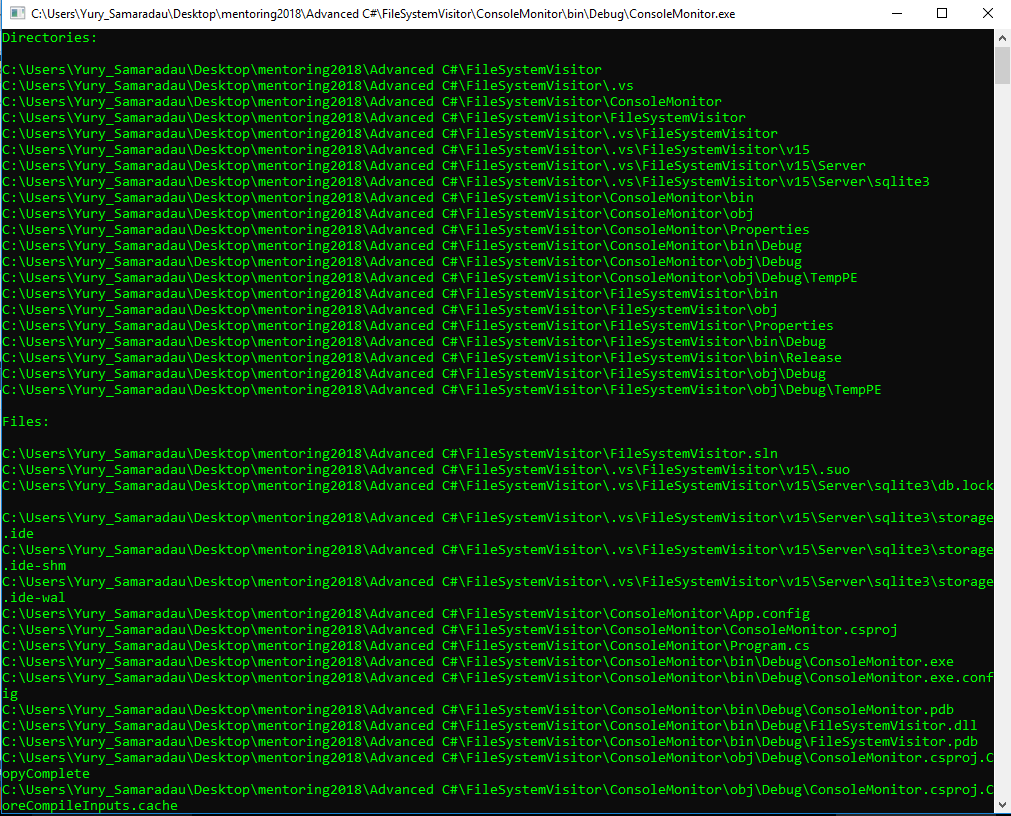
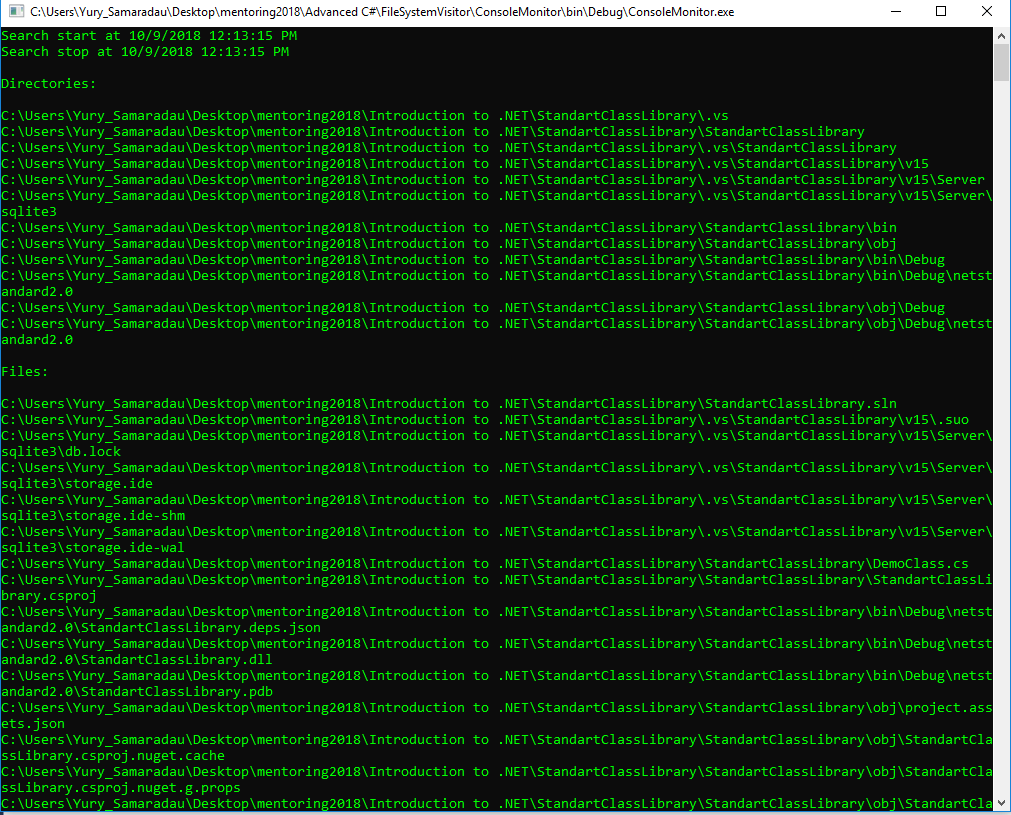
+ Tests, Events * Screenshot

Changed region(s): [[0.0, 0.0, 1.0, 1.0]]

diff --git a/Advanced C#/FileSystemVisitor/FileSystemVisitor/FileSystemVisitor.cs b/Advanced C#/FileSystemVisitor/FileSystemVisitor/FileSystemVisitor.cs
@@ -7,10 +7,30 @@ using System.IO;
 
 namespace FileVisitor
 {
+	/// <summary>
+	/// Represents a file system visitor.
+	/// </summary>
 	public class FileSystemVisitor
 	{
+		private int iteration = 0;
+		public event EventHandler OnSearchStart;
+		public event EventHandler OnSearchStop;
+
+		/// <summary>
+		/// Gets all directory elements.
+		/// </summary>
+		/// <param name="path">Path to folder to analyse.</param>
+		/// <param name="directories">Variable that will contain all directories inside.</param>
+		/// <param name="files">Variable that will contain all files inside.</param>
 		public void GetAllDirectoryElements(string path, ref string[] directories, ref string[] files)
 		{
+			if (iteration == 0)
+			{
+				OnSearchStart?.Invoke(this, null);
+			}
+			
+			iteration++;
+
 			string[] _dirs = Array.Empty<string>();
 			string[] _files = Array.Empty<string>();
 
@@ -19,12 +39,19 @@ namespace FileVisitor
 				_dirs = Directory.GetDirectories(path);
 				_files = Directory.GetFiles(path);
 			}
+			else
+			{
+				throw new ArgumentNullException(nameof(path));
+			}
 
 			if (files != null)
 			{
 				files = (files.Concat(_files)).ToArray();
 			}
-
+			else
+			{
+				throw new ArgumentNullException(nameof(files));
+			}
 			if (_dirs.Count() == 0)
 			{
 				return;
@@ -34,9 +61,20 @@ namespace FileVisitor
 			{
 				directories = (directories.Concat(_dirs)).ToArray();
 			}
+			else
+			{
+				throw new ArgumentNullException(nameof(directories));
+			}
+
 			for (int i = 0; i < _dirs.Count(); i++)
 			{
 				GetAllDirectoryElements(_dirs[i], ref directories, ref files);
+				iteration--;
+			}
+
+			if (iteration == 1)
+			{
+				OnSearchStop?.Invoke(this, null);
 			}
 		}
 	}

diff --git a/Advanced C#/FileSystemVisitor/ConsoleMonitor/Program.cs b/Advanced C#/FileSystemVisitor/ConsoleMonitor/Program.cs
@@ -1,22 +1,21 @@
-using FileVisitor;
-using System;
-using System.Collections.Generic;
-using System.IO;
-using System.Linq;
-using System.Text;
-using System.Threading.Tasks;
+using System;
+using FileVisitor;
 
 namespace ConsoleMonitor
 {
 	class Program
 	{
+		static FileSystemVisitor visitor;
+
 		static void Main(string[] args)
 		{
-			FileSystemVisitor visitor = new FileSystemVisitor();
+			visitor = new FileSystemVisitor();
 			string[] files = Array.Empty<string>();
 			string[] dirs = Array.Empty<string>();
+			visitor.OnSearchStart += Visitor_OnSearchStart;
+			visitor.OnSearchStop += Visitor_OnSearchStop;
 
-			visitor.GetAllDirectoryElements(@"C:\Users\Yury_Samaradau\Desktop\mentoring2018\Advanced C#", ref dirs, ref files);
+			visitor.GetAllDirectoryElements(@"C:\Users\Yury_Samaradau\Desktop\mentoring2018\Introduction to .NET\StandartClassLibrary", ref dirs, ref files);
 
 			Console.WriteLine("\nDirectories: \n");
 
@@ -29,6 +28,16 @@ namespace ConsoleMonitor
 				Console.WriteLine(el);
 
 			Console.ReadKey();
+		}
+
+		private static void Visitor_OnSearchStop(object sender, EventArgs e)
+		{
+			Console.WriteLine($"Search stop at { DateTime.UtcNow }");
+		}
+
+		private static void Visitor_OnSearchStart(object sender, EventArgs e)
+		{
+			Console.WriteLine($"Search start at { DateTime.UtcNow }");
 		}
 	}
 }

diff --git a/Advanced C#/FileSystemVisitor/FileSystemMonitorTests/FileSystemVisitorTests.cs b/Advanced C#/FileSystemVisitor/FileSystemMonitorTests/FileSystemVisitorTests.cs
@@ -1,0 +1,42 @@
+using System;
+using FileVisitor;
+using Microsoft.VisualStudio.TestTools.UnitTesting;
+
+namespace Tests
+{
+	[TestClass]
+	public class FileSystemVisitorTests
+	{
+		[TestMethod]
+		public void GetAllDirectoryElements_NullPath_ThrowsException()
+		{
+			FileSystemVisitor fsv = new FileSystemVisitor();
+			string[] files = Array.Empty<string>();
+			string[] dirs = Array.Empty<string>();
+
+			Assert.ThrowsException<ArgumentNullException>(() => fsv.GetAllDirectoryElements(null, ref dirs, ref files));
+		}
+
+		[TestMethod]
+		public void GetAllDirectoryElements_NullFiles_ThrowsException()
+		{
+			FileSystemVisitor fsv = new FileSystemVisitor();
+			string[] files = Array.Empty<string>();
+			string[] dirs = Array.Empty<string>();
+
+			Assert.ThrowsException<ArgumentNullException>(() => fsv.GetAllDirectoryElements(null, ref dirs, ref files));
+		}
+
+		[TestMethod]
+		public void GetAllDirectoryElements_NullDirs_ThrowsException()
+		{
+			FileSystemVisitor fsv = new FileSystemVisitor();
+			string[] files = Array.Empty<string>();
+			string[] dirs = Array.Empty<string>();
+
+			Assert.ThrowsException<ArgumentNullException>(() => fsv.GetAllDirectoryElements(null, ref dirs, ref files));
+		}
+
+
+	}
+}

diff --git a/Advanced C#/FileSystemVisitor/FileSystemMonitorTests/Properties/AssemblyInfo.cs b/Advanced C#/FileSystemVisitor/FileSystemMonitorTests/Properties/AssemblyInfo.cs
@@ -1,0 +1,20 @@
+using System.Reflection;
+using System.Runtime.CompilerServices;
+using System.Runtime.InteropServices;
+
+[assembly: AssemblyTitle("FileSystemMonitorTests")]
+[assembly: AssemblyDescription("")]
+[assembly: AssemblyConfiguration("")]
+[assembly: AssemblyCompany("EPAM Systems")]
+[assembly: AssemblyProduct("FileSystemMonitorTests")]
+[assembly: AssemblyCopyright("Copyright © EPAM Systems 2018")]
+[assembly: AssemblyTrademark("")]
+[assembly: AssemblyCulture("")]
+
+[assembly: ComVisible(false)]
+
+[assembly: Guid("b50198c0-8254-4e62-97cd-cf60ea4965c1")]
+
+// [assembly: AssemblyVersion("1.0.*")]
+[assembly: AssemblyVersion("1.0.0.0")]
+[assembly: AssemblyFileVersion("1.0.0.0")]
